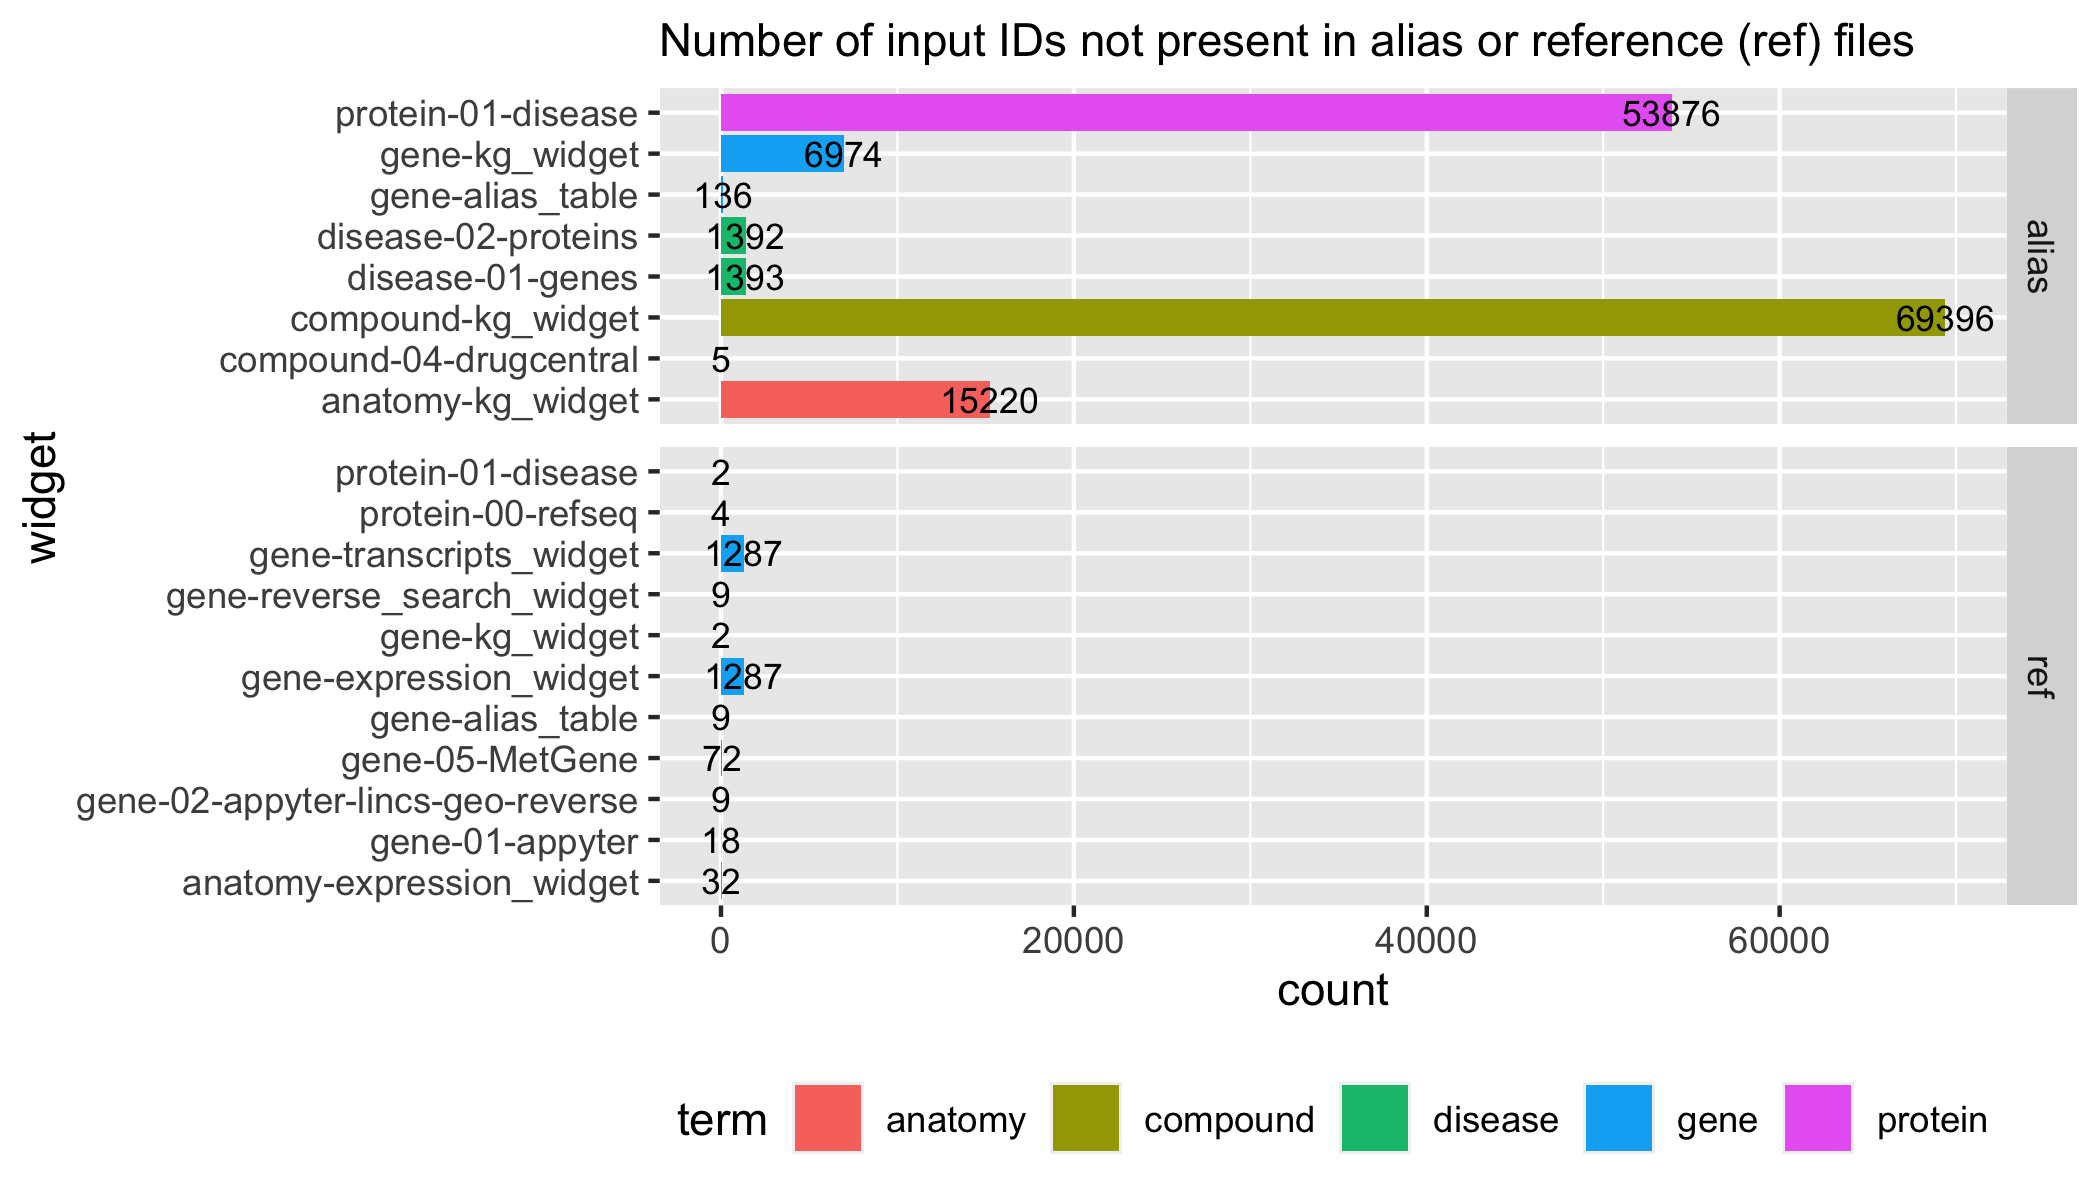
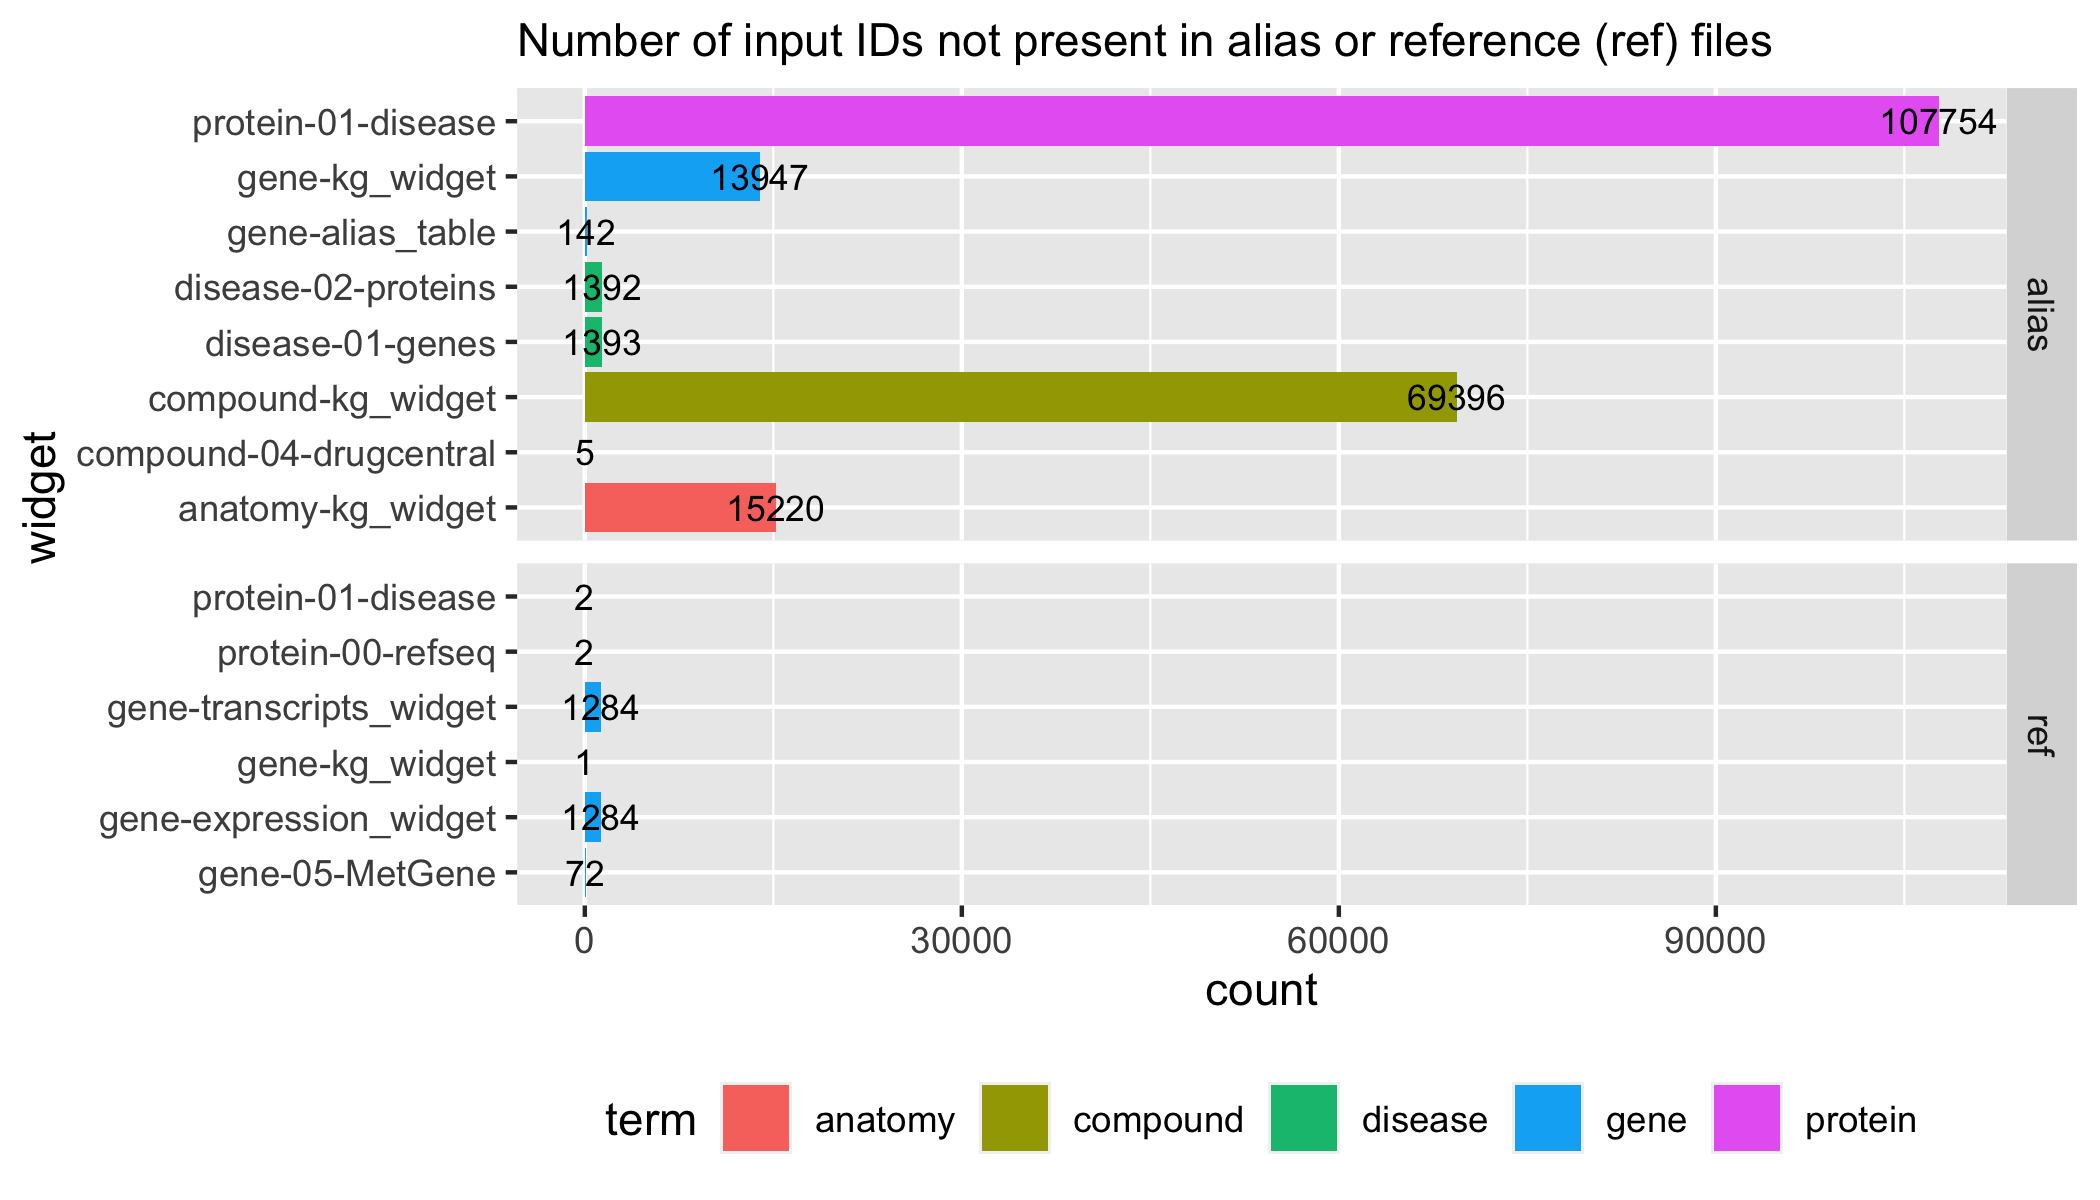
staging test

diff --git a/logs/README.md b/logs/README.md
@@ -1,4 +1,40 @@
-# README
+## README
+
+Summary of IDs used to write new markdown content and those skipped
+because they were not in a reference or alias file.
+
+Last updated: 2022-09-16 12:03:48
+
+    ##        term                        widget written not_in_alias not_in_ref
+    ## 1   anatomy                       01-embl     353            0          0
+    ## 2   anatomy                         01-kg      18            0          0
+    ## 3   anatomy                 10-expression      50            0          0
+    ## 4   anatomy                     kg_widget       0        15220          0
+    ## 5  compound                    01-pubchem   20638            0          0
+    ## 6  compound                     02-glycan   33754            0          0
+    ## 7  compound 03-appyter-lincs-chemical-sim   13448            0          0
+    ## 8  compound                         03-kg    4102            0          0
+    ## 9  compound                04-drugcentral    3602            5          0
+    ## 10 compound                     kg_widget       0        69396          0
+    ## 11  disease                      00-links    1872            0          0
+    ## 12  disease                      01-genes     479         1393          0
+    ## 13  disease                   02-proteins     480         1392          0
+    ## 14     gene                      00-alias   19829            0          0
+    ## 15     gene                    01-appyter   19971            0          0
+    ## 16     gene  02-appyter-lincs-geo-reverse   19971            0          0
+    ## 17     gene                         03-kg   17647            0          0
+    ## 18     gene                    04-disease     752            0          0
+    ## 19     gene                    05-MetGene    1202            0         72
+    ## 20     gene                 10-expression   19352            0          0
+    ## 21     gene             11-reverse-search   19971            0          0
+    ## 22     gene                20-transcripts   19352            0          0
+    ## 23     gene                       70-ucsc       8            0          0
+    ## 24     gene                   alias_table       0          142          0
+    ## 25     gene             expression_widget       0            0       1284
+    ## 26     gene                     kg_widget       0        13947          1
+    ## 27     gene            transcripts_widget       0            0       1284
+    ## 28  protein                     00-refseq   64147            0          2
+    ## 29  protein                    01-disease   10269       107754          2
 
 ![](chunks.png)
 
